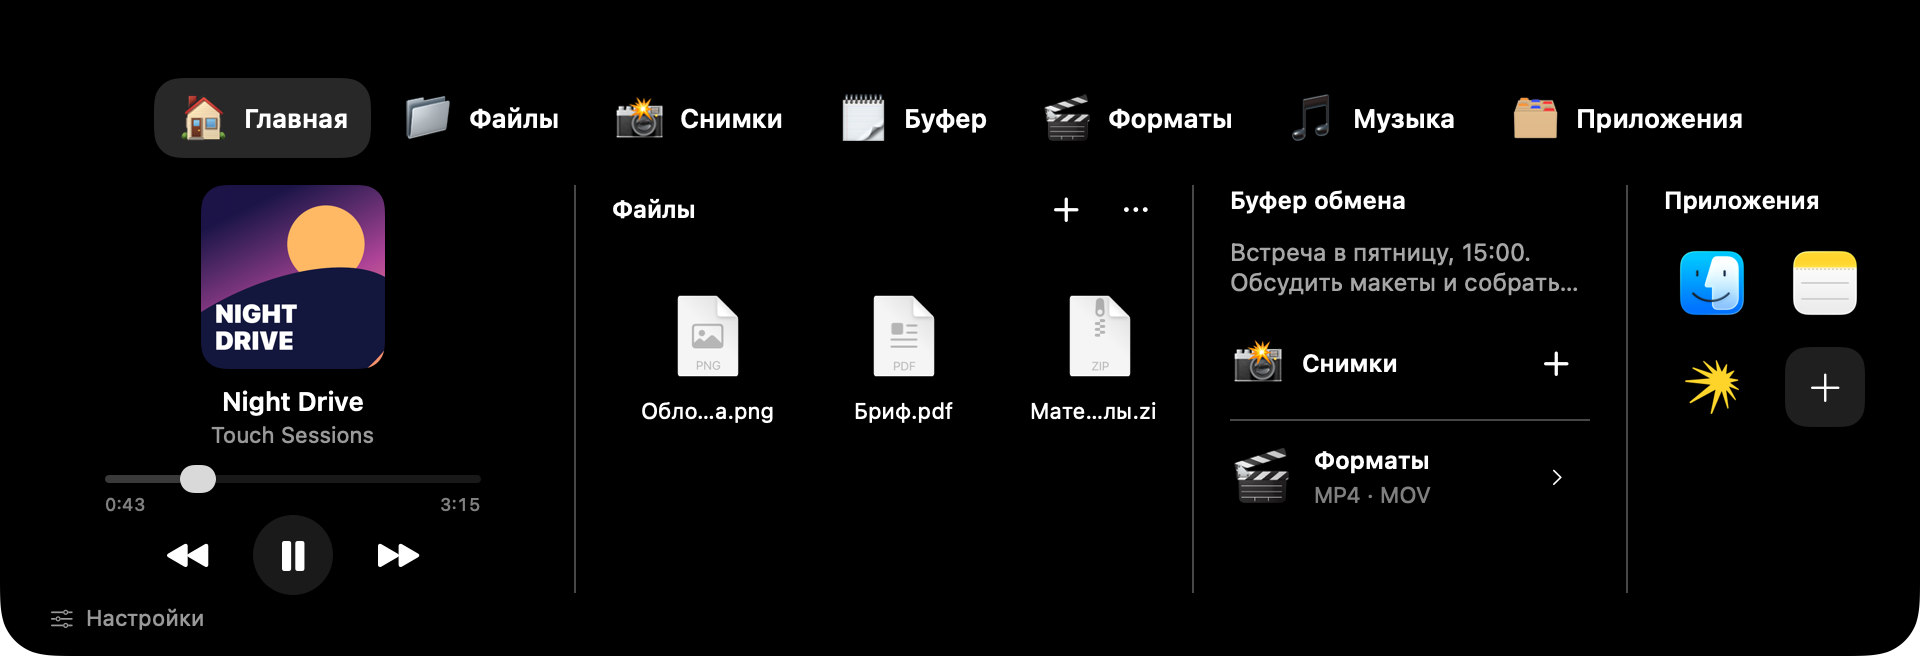
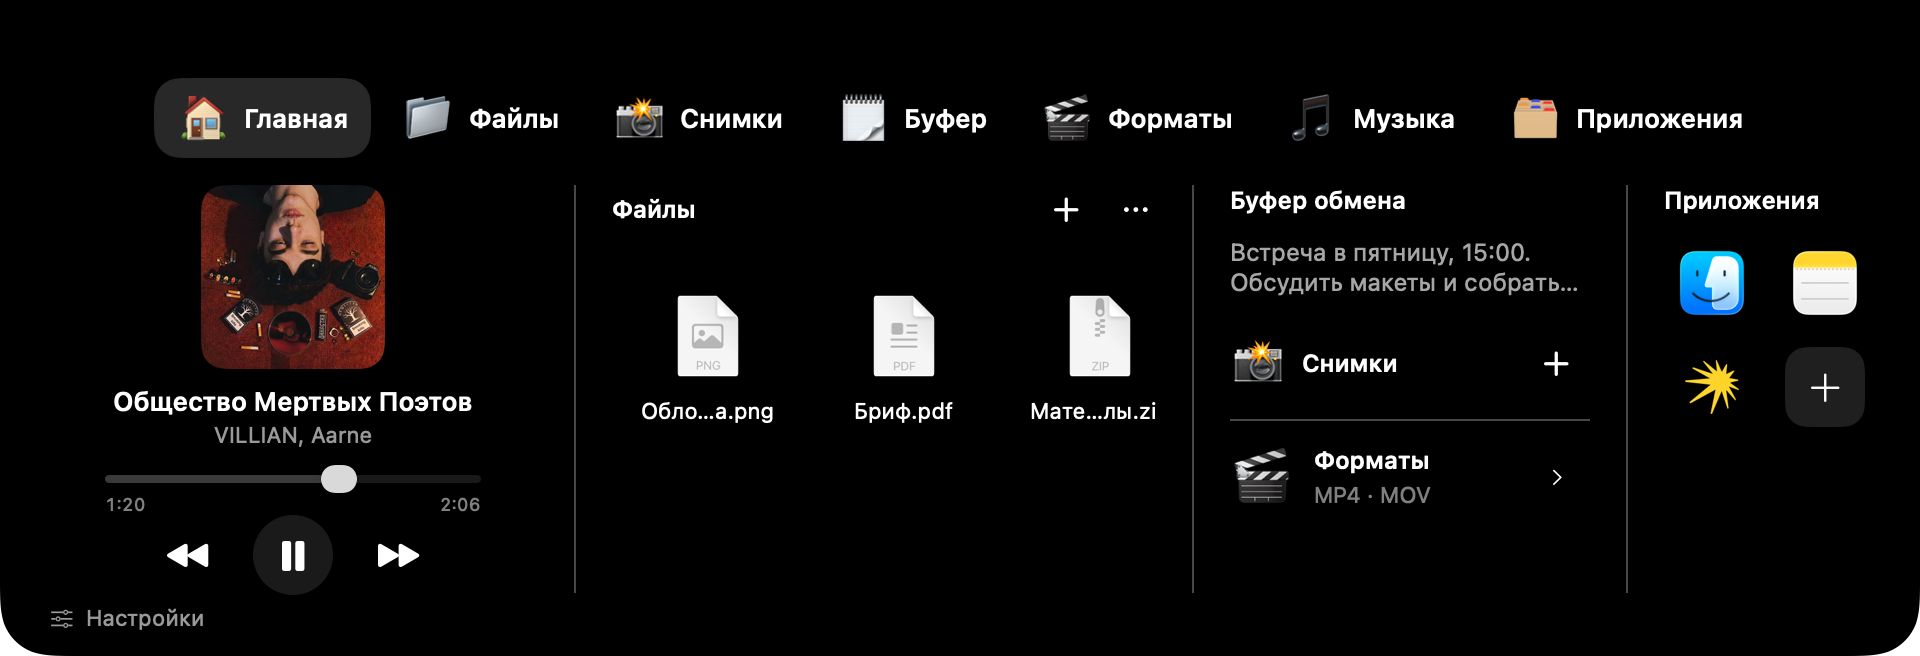
Update home screenshot with the selected track

Changed region(s): [[0.0625, 0.2744, 0.25, 0.7622], [0.2188, 0.7622, 0.25, 0.7927], [0.0625, 0.7622, 0.0938, 0.7927]]

diff --git a/scripts/render-screenshots.swift b/scripts/render-screenshots.swift
@@ -21,28 +21,16 @@ import SwiftUI
         // Fixtures are never written to the user's shelf or playback state.
         model.shelf.add([pdf, zip])
         model.music.isFixture = true; model.music.connected = true; model.music.permissionNeeded = false
-        model.music.playing = true; model.music.title = "Night Drive"; model.music.artist = "Touch Sessions"
-        model.music.elapsed = 43; model.music.duration = 195
-        let cover = ImageRenderer(content:
-            LinearGradient(colors: [Color(red: 0.11, green: 0.08, blue: 0.28), Color(red: 0.68, green: 0.26, blue: 0.59), Color(red: 1, green: 0.6, blue: 0.39)], startPoint: .top, endPoint: .bottomTrailing)
-                .frame(width: 320, height: 320)
-                .overlay(alignment: .topTrailing) { Circle().fill(Color(red: 1, green: 0.72, blue: 0.39)).frame(width: 135, height: 135).padding(35) }
-                .overlay(alignment: .bottom) { Ellipse().fill(Color(red: 0.08, green: 0.09, blue: 0.24)).frame(width: 510, height: 235).rotationEffect(.degrees(-24)).offset(x: -45, y: 90) }
-                .overlay(alignment: .bottomLeading) { VStack(alignment: .leading, spacing: -6) { Text("NIGHT"); Text("DRIVE") }.font(.system(size: 45, weight: .black)).foregroundStyle(.white).padding(24) }.clipped())
-        cover.scale = 2; model.music.artwork = cover.nsImage
-        let names = ["Afterglow", "Slow Motion", "Night Drive"]
-        for (index, title) in names.enumerated() {
-            let artwork = ImageRenderer(content:
-                LinearGradient(colors: [Color(hue: Double(index) * 0.24 + 0.05, saturation: 0.75, brightness: 0.85), .black], startPoint: .topLeading, endPoint: .bottomTrailing)
-                    .frame(width: 320, height: 320)
-                    .overlay { Circle().stroke(.white.opacity(0.7), lineWidth: 3).frame(width: 175, height: 175) }
-                    .overlay(alignment: .bottomLeading) { Text(title.uppercased()).font(.system(size: 26, weight: .black)).foregroundStyle(.white).padding(22) })
-            model.music.title = title; model.music.duration = Double(182 + index * 7)
-            model.music.artwork = index == 2 ? cover.nsImage : artwork.nsImage
-            model.music.recordCurrentTrack()
-        }
-        model.music.title = "Night Drive"; model.music.duration = 195; model.music.elapsed = 43
-        if let data = cover.nsImage?.tiffRepresentation, let png = NSBitmapImageRep(data: data)?.representation(using: .png, properties: [:]) {
+        model.music.playing = true
+        model.music.title = "Общество Мертвых Поэтов"; model.music.artist = "VILLIAN, Aarne"
+        model.music.elapsed = 80; model.music.duration = 126
+        // Album artwork matching the supplied music screenshot.
+        let artworkURL = URL(string: "https://is1-ssl.mzstatic.com/image/thumb/Music221/v4/1f/72/90/1f729078-0a21-ede0-5246-f501f51a7339/cover.jpg/600x600bb.jpg")!
+        let artworkSource = CommandLine.arguments.count > 2 ? URL(fileURLWithPath: CommandLine.arguments[2]) : artworkURL
+        guard let cover = NSImage(data: try Data(contentsOf: artworkSource)) else { fatalError("Album artwork unavailable") }
+        model.music.artwork = cover
+        model.music.recordCurrentTrack()
+        if let data = cover.tiffRepresentation, let png = NSBitmapImageRep(data: data)?.representation(using: .png, properties: [:]) {
             let url = fixtures.appendingPathComponent("Обложка.png")
             try png.write(to: url); model.shelf.add([url])
         }
